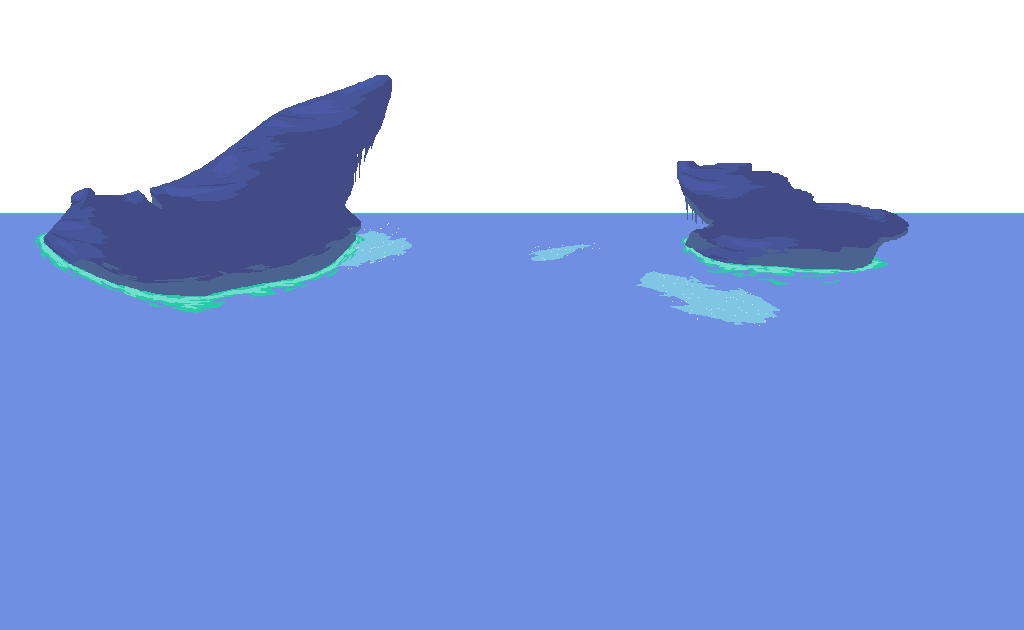
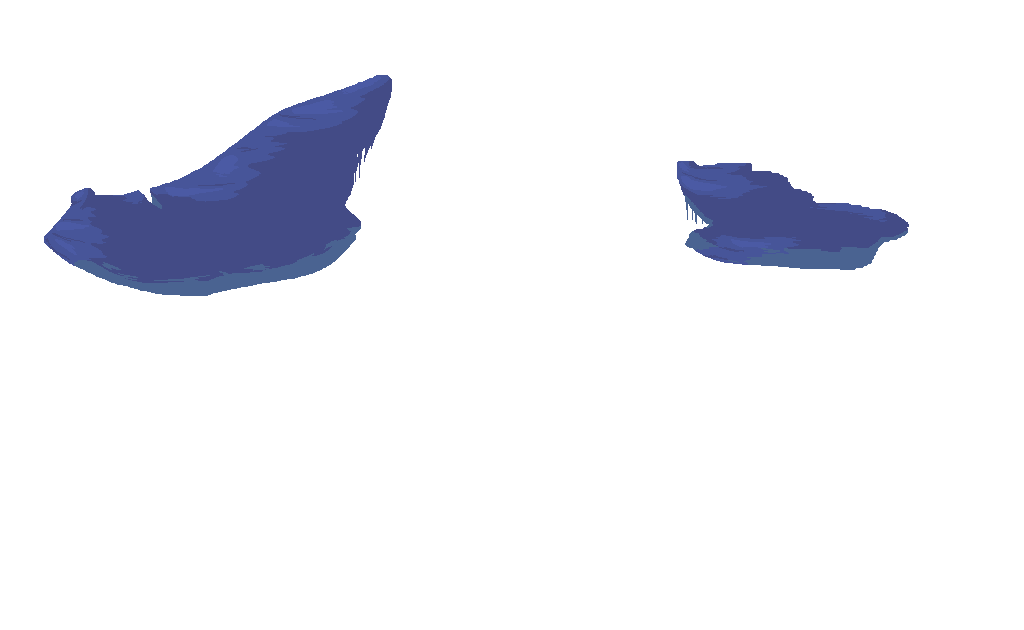
riven hive bg glow
note that the glow texture is drawn before the normal one (and seems to get blurred a bit, so it'll give a little bit of a glowing outline effect for pixels it has in common with the normal one)

diff --git a/Backgrounds/Riven_Surface_Background.cs b/Backgrounds/Riven_Surface_Background.cs
@@ -1,11 +1,31 @@
-using Origins;
+using Microsoft.Xna.Framework;
+using Microsoft.Xna.Framework.Graphics;
+using Origins;
+using Origins.Reflection;
+using ReLogic.Content;
 using Terraria;
+using Terraria.GameContent;
 using Terraria.ModLoader;
 
 namespace Origins.Backgrounds {
 	public class Riven_Surface_Background : ModSurfaceBackgroundStyle {
+		Asset<Texture2D> glowTexture;
 		public override int ChooseFarTexture() {
-			return BackgroundTextureLoader.GetBackgroundSlot("Origins/Backgrounds/Riven_Background3");
+			int textureSlot = BackgroundTextureLoader.GetBackgroundSlot("Origins/Backgrounds/Riven_Background3");
+			glowTexture ??= ModContent.Request<Texture2D>("Origins/Backgrounds/Riven_Background3_Glow");
+			for (int i = 0; i < MainReflection.bgLoops.GetValue(Main.instance); i++) {
+				Main.spriteBatch.Draw(
+					glowTexture.Value,
+					new Vector2(MainReflection.bgStartX.GetValue(Main.instance) + MainReflection.bgWidthScaled * i, MainReflection.bgTopY.GetValue(Main.instance)),
+					new Rectangle(0, 0, Main.backgroundWidth[textureSlot], Main.backgroundHeight[textureSlot]),
+					Color.White,
+					0f,
+					default(Vector2),
+					MainReflection.bgScale,
+					SpriteEffects.None,
+				0f);
+			}
+			return textureSlot;
 		}
 
 		public override int ChooseMiddleTexture() {

diff --git a/Reflection/MainReflection.cs b/Reflection/MainReflection.cs
@@ -1,0 +1,31 @@
+using Microsoft.Xna.Framework;
+using System;
+using System.Reflection;
+using Terraria;
+using Terraria.ModLoader;
+
+namespace Origins.Reflection {
+	public class MainReflection : ILoadable {
+		public static FastFieldInfo<Main, int> bgLoops;
+		public static FastFieldInfo<Main, int> bgStartX;
+		public static FastFieldInfo<Main, int> bgTopY;
+		static FastStaticFieldInfo<Main, int> _bgWidthScaled;
+		public static int bgWidthScaled { get => _bgWidthScaled.GetValue(); set => _bgWidthScaled.SetValue(value); }
+		static FastStaticFieldInfo<Main, float> _bgScale;
+		public static float bgScale { get => _bgScale.GetValue(); set => _bgScale.SetValue(value); }
+		public void Load(Mod mod) {
+			bgLoops = new("bgLoops", BindingFlags.NonPublic);
+			bgStartX = new("bgStartX", BindingFlags.NonPublic);
+			bgTopY = new("bgTopY", BindingFlags.NonPublic);
+			_bgWidthScaled = new("bgWidthScaled", BindingFlags.NonPublic);
+			_bgScale = new("bgScale", BindingFlags.NonPublic);
+		}
+		public void Unload() {
+			bgLoops = null;
+			bgStartX = null;
+			bgTopY = null;
+			_bgWidthScaled = null;
+			_bgScale = null;
+		}
+	}
+}

diff --git a/UI/ModMenus.cs b/UI/ModMenus.cs
@@ -1,0 +1,20 @@
+using Microsoft.Xna.Framework.Graphics;
+using Origins.Backgrounds;
+using ReLogic.Content;
+using System;
+using System.Collections.Generic;
+using System.Linq;
+using System.Text;
+using System.Threading.Tasks;
+using Terraria;
+using Terraria.ID;
+using Terraria.Localization;
+using Terraria.ModLoader;
+
+namespace Origins.UI {
+	public class Riven_Hive_Mod_Menu : ModMenu {
+		public override int Music => Origins.Music.Riven;
+		public override ModSurfaceBackgroundStyle MenuBackgroundStyle => ModContent.GetInstance<Riven_Surface_Background>();
+		public override string DisplayName => "Riven Hive";//Language.GetOrRegister(Mod.GetLocalizationKey("ModMenu.Riven_Hive")).Value;
+	}
+}
